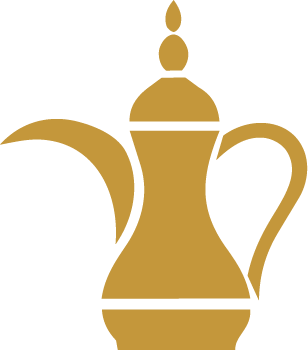
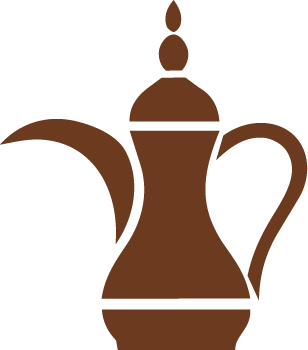
Fix marquee separators: enlarge to 54px, remove 15px legacy override, eliminate loop gap, recolor Dallah to chocolate brown

diff --git a/css/styles.css b/css/styles.css
@@ -915,9 +915,9 @@ section h2::before,footer .fcta h2::before{display:none!important}
 .tki.t-serif-italic-gold{font-family:var(--serif);font-style:italic;font-weight:600;color:var(--acc-on);font-size:clamp(1.12rem,2.2vw,1.5rem)}
 .tki.t-script{font-family:var(--serif);font-weight:400;font-style:italic;letter-spacing:.03em;font-size:clamp(1.08rem,2vw,1.42rem);color:var(--acc-on)}
 
-.tkg i{width:22px;height:22px;flex:none;display:inline-flex;align-items:center;justify-content:center;margin:0 6px;background:none!important;border:none!important;box-shadow:none!important;filter:none!important}
-.tkg i img{width:100%;height:100%;object-fit:contain;display:block;background:none!important;border:none!important;box-shadow:none!important;filter:none!important}
-@media(max-width:600px){.tkv{padding:11px 0}.tki{font-size:.95rem;padding:0 5px}.tkg i{width:16px;height:16px;margin:0 4px}}
+.tkg i{width:54px;height:54px;flex:none;display:inline-flex;align-items:center;justify-content:center;margin:0 12px;background:none!important;border:none!important;box-shadow:none!important;filter:none!important;transform-origin:center center}
+.tkg i img{width:auto;height:52px;max-height:52px;max-width:54px;object-fit:contain;display:block;background:none!important;border:none!important;box-shadow:none!important;filter:none!important}
+@media(max-width:600px){.tkv{padding:11px 0}.tki{font-size:.95rem;padding:0 5px}.tkg i{width:40px;height:40px;margin:0 8px}.tkg i img{height:38px;max-height:38px;max-width:40px}}
 @media(prefers-reduced-motion:reduce){.tkv{-webkit-mask:none;mask:none}.tkt{width:auto;justify-content:center;transform:none!important}.tkg{flex-wrap:wrap;justify-content:center}.tkg+.tkg{display:none}}
 /* language button */
 .langb{border:0;cursor:pointer;border-radius:99px;padding:7px 14px;font:600 13.5px var(--sans);color:inherit;background:none;box-shadow:inset 0 0 0 1.5px color-mix(in srgb,var(--on) 28%,transparent);transition:background .25s,color .25s}
@@ -982,10 +982,8 @@ section[data-bgw]::after{content:attr(data-bgw);position:absolute;inset-inline-e
 .tkv::before{display:none}
 #tkb{position:absolute;inset:0;width:100%;height:100%;pointer-events:none}
 .tkt{color:var(--acc-on)}
-.tki{font:700 clamp(1.05rem,1.8vw,1.3rem)/1 var(--sans);padding:0 10px;white-space:nowrap}
 .tkw{display:inline-block;padding:0 .02em;white-space:pre}.tks{width:.5em}
-.tkg i{background:var(--acc-on);width:15px;height:15px;margin:0 12px}
-@media(prefers-reduced-motion:reduce){.tkt{color:var(--on)}.tkv{height:auto!important;padding:12px 0}.tkg i{background:var(--acc)}#tkb{display:none}}
+@media(prefers-reduced-motion:reduce){.tkt{color:var(--on)}.tkv{height:auto!important;padding:12px 0}#tkb{display:none}}
 .evw{position:relative;direction:ltr}
 .evg{display:flex!important;gap:18px;overflow-x:auto;overflow-y:hidden;padding:8px 2px 10px;margin:-8px 0 -10px;scrollbar-width:none;cursor:grab;overscroll-behavior-x:contain}
 .evg::-webkit-scrollbar{display:none}

diff --git a/js/i18n.js b/js/i18n.js
@@ -132,7 +132,7 @@ function tkBuild(){if(!TR)return;const it=items();lastTxt=it.map(x=>x.t).join('|
  TR.parentElement.style.height=H+'px';
  TR.innerHTML='<div class="tkg">'+one+'</div>';const gw0=TR.firstElementChild.getBoundingClientRect().width||600;
  const k=Math.max(1,Math.ceil(innerWidth*1.1/gw0)),g=one.repeat(k);TR.innerHTML='<div class="tkg">'+g+'</div><div class="tkg">'+g+'</div>';
- const w0=TR.firstElementChild.getBoundingClientRect().width,P=Math.ceil(w0/LAM)*LAM;TR.querySelectorAll('.tkg').forEach(q=>q.style.paddingRight=(P-w0)+'px');gw=P;x=0;
+ const w0=TR.firstElementChild.getBoundingClientRect().width;const periods=Math.max(2,Math.round(w0/LAM));LAM=w0/periods;gw=w0;x=0;
  let d='';for(let X=-20;X<=innerWidth+20;X+=8)d+=(d?'L':'M')+X+' '+(H/2+AMP*Math.sin(2*Math.PI*X/LAM)).toFixed(1);
  if(sv)sv.innerHTML='<path d="'+d+'" fill="none" stroke="var(--acc)" stroke-width="'+BH+'" stroke-linejoin="round"/>';
  els=[...TR.querySelectorAll('.tkw,i')].map(e=>[e,e.offsetLeft+e.offsetWidth/2]);start()}

diff --git a/templates/public.html b/templates/public.html
@@ -73,7 +73,7 @@
   <script src="js/guard.js?v=2"></script>
 
 
-  <link rel="stylesheet" href="css/styles.css?v=14">
+  <link rel="stylesheet" href="css/styles.css?v=16">
   <style>
     .mth,
     .fthemes {
@@ -766,7 +766,7 @@
   <script>window.AJ_ROUTE = __AJ_ROUTE__; window.AJ_CONFIG = __AJ_CONFIG__;</script>
   <script src="js/app.js?v=12"></script>
   <script src="js/cms-public.js?v=10"></script>
-  <script src="js/i18n.js?v=4"></script>
+  <script src="js/i18n.js?v=5"></script>
   <script src="js/carousel.js?v=2"></script>
   <script src="js/faq.js?v=2"></script>
 </body>
